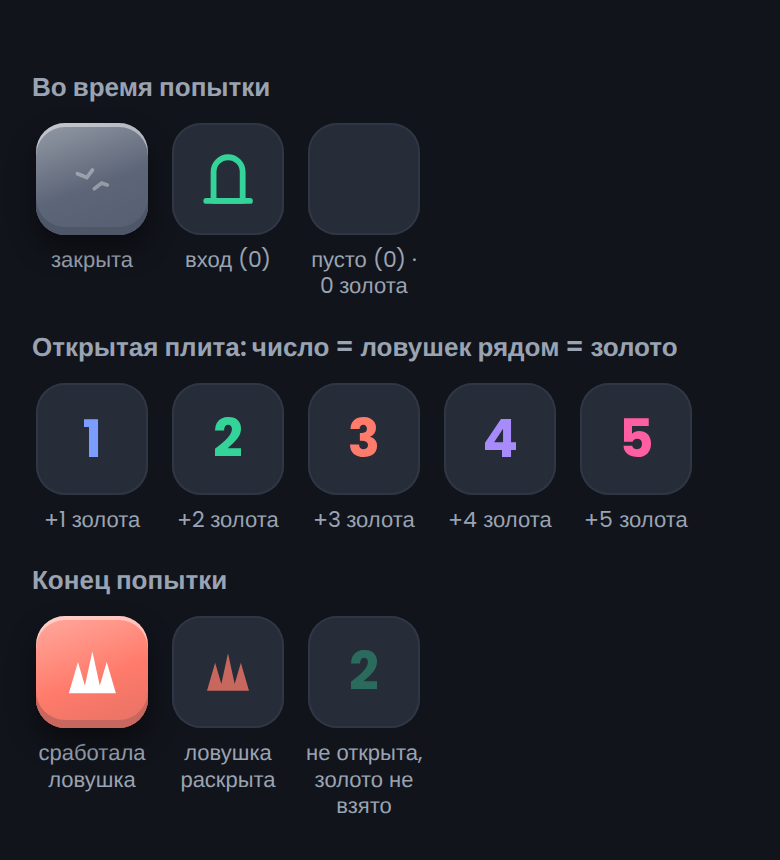
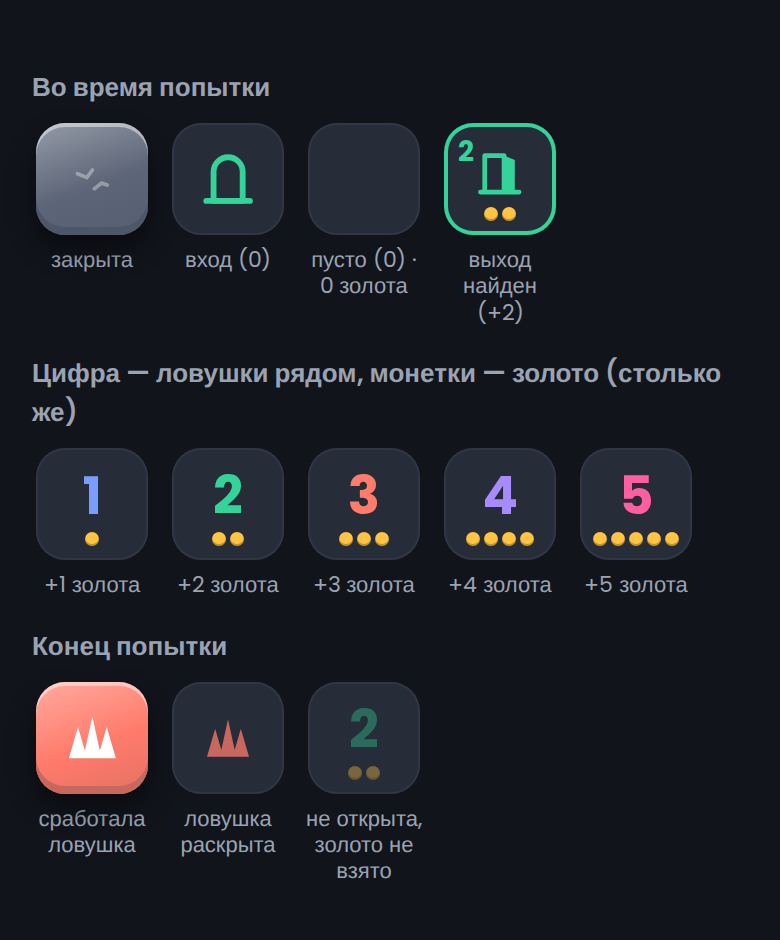
Раскоп: скрытый выход у края, монетки под цифрой, обучающая подсветка
Выход ставится солвером только туда, куда доводит логика (иначе в ~58%
попыток риск был бы вынужденным), не ближе 3 к входу. Баланс звёзд
пересчитан, почти не изменился. Скетч и лист плит перерисованы.

Claude-Session: https://claude.ai/code/session_01KWr27tZBqT1rqwvqWW7Bph

diff --git a/UI Design/prototypes/excavation/mockup.html b/UI Design/prototypes/excavation/mockup.html
@@ -9,7 +9,8 @@
   /* Скетч игрового экрана для specs/24-excavation.md §7.1.
      Уровень 5, раскладка 3 из 20 (seed 5035), после всех гарантированно
      безопасных плит: золото 23, первая звезда (18) есть, до второй (26)
-     не хватает 3, безопасных плит не осталось. Кнопка «Забрать 23» активна —
+     не хватает 3, безопасных плит не осталось, выход (левый край,
+     второй ряд) найден. Кнопка «Забрать 23» активна —
      момент главного решения. Тема «Гробница» (data-theme="tomb", токены в
      design-tokens.css): закрытая плита — --ui-stone, числа — --ui-clue-N,
      золото — --ui-yellow, вход — --ui-green. */
@@ -64,6 +65,14 @@
   .open b { font-size: 24px; font-weight: 700; line-height: 1; }
   .open.n1 b { color: var(--ui-clue-1); } .open.n2 b { color: var(--ui-clue-2); } .open.n3 b { color: var(--ui-clue-3); }
   .open.n4 b { color: var(--ui-clue-4); } .open.n5 b { color: var(--ui-clue-5); }
+  .open b { margin-top: -8px; }
+  /* Монетки под цифрой: столько же штук, сколько число. */
+  .pips { position: absolute; bottom: 7px; left: 0; right: 0; display: flex; justify-content: center; gap: 2px; }
+  .pips i { width: 7px; height: 7px; border-radius: 50%; background: var(--ui-yellow); box-shadow: inset 0 -1px 0 rgba(0,0,0,.25); }
+  /* Найденный выход: зелёная рамка, дверь, число в углу. */
+  .exit { box-shadow: inset 0 0 0 2px var(--ui-green); }
+  .exit svg.door { width: 46%; height: 46%; color: var(--ui-green); margin-top: -6px; }
+  .exit b.corner { position: absolute; top: 4px; left: 7px; font-size: 14px; margin: 0; }
   .entrance svg { width: 52%; height: 52%; color: var(--ui-green); }
 
   .actions { display: flex; flex-direction: column; gap: 6px; align-items: stretch; }
@@ -79,6 +88,7 @@
     <symbol id="star" viewBox="0 0 24 24"><path d="M12 2.8l2.8 5.9 6.4.8-4.7 4.4 1.2 6.4L12 17.2l-5.7 3.1 1.2-6.4L2.8 9.5l6.4-.8z" fill="currentColor"/></symbol>
     <symbol id="spikes" viewBox="0 0 24 24"><path d="M3 20 6.5 8 10 20zM8.5 20 12 4l3.5 16zM14 20l3.5-12L21 20z" fill="currentColor"/></symbol>
     <symbol id="cracks" viewBox="0 0 24 24"><path d="M4 9l5 2 3-4M13 17l4-3 3 1" stroke="currentColor" stroke-width="2" fill="none" stroke-linecap="round"/></symbol>
+    <symbol id="exitdoor" viewBox="0 0 24 24"><path d="M5 21V4h9v17" fill="none" stroke="currentColor" stroke-width="2.2" stroke-linejoin="round"/><path d="M14 4l5 2v15l-5-1z" fill="currentColor"/><path d="M3 21h18" stroke="currentColor" stroke-width="2.2" stroke-linecap="round"/></symbol>
     <symbol id="door" viewBox="0 0 24 24"><path d="M6 21V9a6 6 0 0 1 12 0v12z" fill="none" stroke="currentColor" stroke-width="2.4" stroke-linejoin="round"/><path d="M3 21h18" stroke="currentColor" stroke-width="2.4" stroke-linecap="round"/></symbol>
   </defs>
 </svg>
@@ -110,14 +120,17 @@
 <script>
   // Уровень 5, seed 5035. '#' и '*' — закрытые плиты (ловушки игроку не видны),
   // цифра — открытая плита, '_' — открытая пустая, 'E' — вход.
-  const rows = ['#*1##*', '1122*#', '111*##', '*113**', '22_2*#', '*1E1##'];
+  // 'X' — найденный выход (число 1).
+  const rows = ['#*1##*', 'X122*#', '111*##', '*113**', '22_2*#', '*1E1##'];
+  const pips = (n) => `<div class="pips">${'<i></i>'.repeat(n)}</div>`;
   const board = document.getElementById('board');
   rows.forEach((line) => [...line].forEach((ch) => {
     const d = document.createElement('div');
     d.className = 'cell';
     if (ch === '#' || ch === '*') d.innerHTML = '<div class="tile"><svg><use href="#cracks"/></svg></div>';
     else if (ch === 'E') { d.classList.add('entrance'); d.innerHTML = '<svg><use href="#door"/></svg>'; }
-    else if (ch !== '_') { d.classList.add('open', 'n' + ch); d.innerHTML = `<b>${ch}</b>`; }
+    else if (ch === 'X') { d.classList.add('open', 'exit', 'n1'); d.innerHTML = `<b class="corner">1</b><svg class="door"><use href="#exitdoor"/></svg>${pips(1)}`; }
+    else if (ch !== '_') { d.classList.add('open', 'n' + ch); d.innerHTML = `<b>${ch}</b>${pips(+ch)}`; }
     board.appendChild(d);
   }));
   // Шкала: 0..36 (третья звезда), отметки 18 / 26 / 36, золото 23.

diff --git a/UI Design/prototypes/excavation/tiles.html b/UI Design/prototypes/excavation/tiles.html
@@ -25,12 +25,20 @@
   .ghost b { opacity: .38; }
   .ghost-trap svg { width: 50%; height: 50%; color: var(--ui-coral); opacity: .75; }
   .entrance svg { width: 52%; height: 52%; color: var(--ui-green); }
+  .cell b { margin-top: -8px; }
+  .pips { position: absolute; bottom: 7px; left: 0; right: 0; display: flex; justify-content: center; gap: 2px; }
+  .pips i { width: 7px; height: 7px; border-radius: 50%; background: var(--ui-yellow); box-shadow: inset 0 -1px 0 rgba(0,0,0,.25); }
+  .ghost .pips { opacity: .38; }
+  .exit { box-shadow: inset 0 0 0 2px var(--ui-green); }
+  .exit svg { width: 46%; height: 46%; color: var(--ui-green); margin-top: -6px; }
+  .exit b.corner { position: absolute; top: 4px; left: 7px; font-size: 14px; margin: 0; }
 </style>
 </head>
 <body>
 <svg width="0" height="0" style="position:absolute"><defs>
   <symbol id="spikes" viewBox="0 0 24 24"><path d="M3 20 6.5 8 10 20zM8.5 20 12 4l3.5 16zM14 20l3.5-12L21 20z" fill="currentColor"/></symbol>
   <symbol id="cracks" viewBox="0 0 24 24"><path d="M4 9l5 2 3-4M13 17l4-3 3 1" stroke="currentColor" stroke-width="2" fill="none" stroke-linecap="round"/></symbol>
+  <symbol id="exitdoor" viewBox="0 0 24 24"><path d="M5 21V4h9v17" fill="none" stroke="currentColor" stroke-width="2.2" stroke-linejoin="round"/><path d="M14 4l5 2v15l-5-1z" fill="currentColor"/><path d="M3 21h18" stroke="currentColor" stroke-width="2.2" stroke-linecap="round"/></symbol>
   <symbol id="door" viewBox="0 0 24 24"><path d="M6 21V9a6 6 0 0 1 12 0v12z" fill="none" stroke="currentColor" stroke-width="2.4" stroke-linejoin="round"/><path d="M3 21h18" stroke="currentColor" stroke-width="2.4" stroke-linecap="round"/></symbol>
 </defs></svg>
 <h2>Во время попытки</h2>
@@ -38,18 +46,19 @@
   <div class="item"><div class="cell"><div class="tile"><svg><use href="#cracks"/></svg></div></div><span>закрыта</span></div>
   <div class="item"><div class="cell entrance"><svg><use href="#door"/></svg></div><span>вход (0)</span></div>
   <div class="item"><div class="cell"></div><span>пусто (0) · 0 золота</span></div>
+  <div class="item"><div class="cell exit"><b class="corner" style="color:var(--ui-clue-2)">2</b><svg><use href="#exitdoor"/></svg><div class="pips"><i></i><i></i></div></div><span>выход найден (+2)</span></div>
 </div>
-<h2>Открытая плита: число = ловушек рядом = золото</h2>
+<h2>Цифра — ловушки рядом, монетки — золото (столько же)</h2>
 <div class="row" id="nums"></div>
 <h2>Конец попытки</h2>
 <div class="row">
   <div class="item"><div class="cell"><div class="tile trap"><svg><use href="#spikes"/></svg></div></div><span>сработала ловушка</span></div>
   <div class="item"><div class="cell ghost-trap"><svg><use href="#spikes"/></svg></div><span>ловушка раскрыта</span></div>
-  <div class="item"><div class="cell ghost"><b style="color:var(--ui-clue-2)">2</b></div><span>не открыта, золото не взято</span></div>
+  <div class="item"><div class="cell ghost"><b style="color:var(--ui-clue-2)">2</b><div class="pips"><i></i><i></i></div></div><span>не открыта, золото не взято</span></div>
 </div>
 <script>
   document.getElementById('nums').innerHTML = [1, 2, 3, 4, 5].map((n) =>
-    `<div class="item"><div class="cell"><b style="color:var(--ui-clue-${n})">${n}</b></div><span>+${n} золота</span></div>`).join('');
+    `<div class="item"><div class="cell"><b style="color:var(--ui-clue-${n})">${n}</b><div class="pips">${'<i></i>'.repeat(n)}</div></div><span>+${n} золота</span></div>`).join('');
 </script>
 </body>
 </html>

diff --git a/ideas/approved/24-excavation.md b/ideas/approved/24-excavation.md
@@ -40,15 +40,16 @@ gate1_date: 2026-09-27
 ## 2. Концепт
 
 Открывай плиты гробницы: число на плите — это и сколько ловушек рядом, и сколько
-золота она приносит; с первой звезды можно уйти в любой момент, но ловушка
-сжигает всё золото попытки.
+золота она приносит; найди выход — и с первой звезды можно уйти в любой
+момент, но ловушка сжигает всё золото попытки.
 
 ## 3. Игровой цикл
 
 Тапнуть закрытую плиту → плита показывает число: столько ловушек среди восьми
 соседей и столько золота прибавилось → золото двигает шкалу к следующей звезде →
-по числам вывести, какие плиты точно безопасны → когда таких нет — забрать
-золото или рискнуть плитой, в которой нет уверенности.
+по числам вывести, какие плиты точно безопасны, и найти выход у края → когда
+безопасных нет — забрать золото или рискнуть плитой, в которой нет
+уверенности.
 
 ## 4. Главное решение
 
@@ -77,8 +78,8 @@ gate1_date: 2026-09-27
 
 ## 7. Цель и поражение
 
-Цель игрока: выйти с золотом не меньше первой звезды (уровень пройден); вторая
-и третья звезда — выше.
+Цель игрока: найти выход и выйти через него с золотом не меньше первой звезды
+(уровень пройден); вторая и третья звезда — выше.
 
 Поражение: открыта ловушка — золото попытки сгорает, следующая попытка идёт на
 новой раскладке.
@@ -105,7 +106,7 @@ gate1_date: 2026-09-27
 ```text
 Название:   Раскоп / The Dig
 Концепт:    Число на плите — и ловушки рядом, и золото; с первой звезды можно уйти, но ловушка сжигает всё.
-Цикл:       Тап по плите → число = ловушки рядом = золото → шкала звёзд → вывод безопасных плит → забрать или рискнуть.
+Цикл:       Тап по плите → число = ловушки рядом = золото → шкала звёзд → вывод безопасных плит, поиск выхода → забрать или рискнуть.
 Решение:    Забрать гарантированные звёзды или открыть неуверенную плиту ради следующей.
 Давление:   Скрытые ловушки, цена ошибки — вся попытка.
 Хук:        Золото плиты = её число: богатство стоит вплотную к ловушкам.
@@ -123,7 +124,7 @@ gate1_date: 2026-09-27
 1. **Исходный вопрос прототипа уже закрыт солвером.** Backlog-версия проверяла
    «логик обгоняет случайного игрока на 20%». Боты (`tools/excavation-solver.mjs`)
    показали: игрок по подсказкам проходит уровни 2–5 в 100% попыток, случайный —
-   в 2–20%. Разница в разы, а не на 20%, и никакого риска для идеи этот вопрос
+   в 1–8%. Разница в разы, а не на 20%, и никакого риска для идеи этот вопрос
    не несёт — это свойство «Сапёра». Настоящий риск идеи — в решении «забрать
    или рискнуть», на него и переписаны гипотеза и kill-критерий. Цифр по новому
    вопросу пока нет — критерий записан до них.
@@ -145,6 +146,15 @@ gate1_date: 2026-09-27
 6. **Вход открыт с начала вместо «первый тап всегда безопасен».** Шаблон спеки
    запрещает случайность, решающую исход, во время игры: перенос ловушки из-под
    первого тапа — именно она. Раскладка целиком фиксирована заранее.
+7. **Выход — скрытая плита у края** (предложение автора, 2026-09-27). Уйти
+   можно только через найденный выход. Солвер: если прятать выход под любой
+   безопасной плитой у края, логикой его находят лишь в ~42% попыток, и
+   остальные рисковали бы не из жадности, а чтобы вообще уйти. Поэтому выход
+   ставится только туда, куда логика доводит без догадок, подальше от входа.
+   Баланс звёзд от этого почти не меняется.
+8. **Монетки под цифрой** (предложение автора, 2026-09-27): «2» и две
+   монетки — чтобы читалось, что число — это и ловушки, и золото. На уровне 1
+   один раз подсвечиваются соседи первого числа.
 
 ---
 

diff --git a/UI Design/prototypes/excavation/README.md b/UI Design/prototypes/excavation/README.md
@@ -5,10 +5,12 @@
 `UI Design/design-tokens.css` и `themes.tomb` в `design-tokens.json`.
 
 - `game-screen.png` — скетч игрового экрана 390×664 для §7.1: уровень 5,
-  раскладка seed 5035, открыты все гарантированно безопасные плиты. Золото 23,
+  раскладка seed 5035, открыты все гарантированно безопасные плиты, выход
+  найден (левый край, второй ряд). Золото 23,
   первая звезда (18) есть, до второй (26) не хватает трёх, «Забрать 23»
   активна — момент главного решения.
-- `tiles.png` — все состояния плиты: закрыта, вход, пусто, числа 1–5, а в
+- `tiles.png` — все состояния плиты: закрыта, вход, пусто, найденный выход,
+  числа 1–5 с монетками, а в
   конце попытки — сработавшая ловушка, раскрытая ловушка и неоткрытая
   безопасная плита.
 - `mockup.html`, `tiles.html` — исходники. Пересобрать PNG:
@@ -20,15 +22,11 @@
 | Закрытая плита | тайл `--ui-stone` | объём и трещины |
 | Открытая плита | `--ui-surface-muted` | плоская |
 | Число 1–5 | `--ui-clue-1..5`: синий, зелёный, коралловый, фиолетовый, розовый | сама цифра |
+| Золото плиты | монетки `--ui-yellow` под цифрой, столько же штук | количество |
+| Найденный выход | рамка и дверь `--ui-green`, цифра в углу | значок двери |
 | Вход | `--ui-green` | значок арки |
 | Ловушка | тайл `--ui-coral` (сработала) или значок на плоской (раскрыта) | значок шипов |
 | Звезда на шкале | `--ui-yellow` / `--ui-disabled` | заливка или рамка, число порога |
 
 Черновик тёмного варианта (`mockup-dark.html`) после одобрения стал основным
 `mockup.html`; светлого варианта больше нет.
-
-## Предложение на одобрение (2026-09-27)
-
-- `clue-proposal.png`, `clue-proposal.html` — как показать, что число = и
-  ловушки, и золото: под цифрой ряд из стольких же монеток; на уровне 1 при
-  первом числе соседи на 1,5 с обводятся. Не одобрено, в спеке пока нет.
